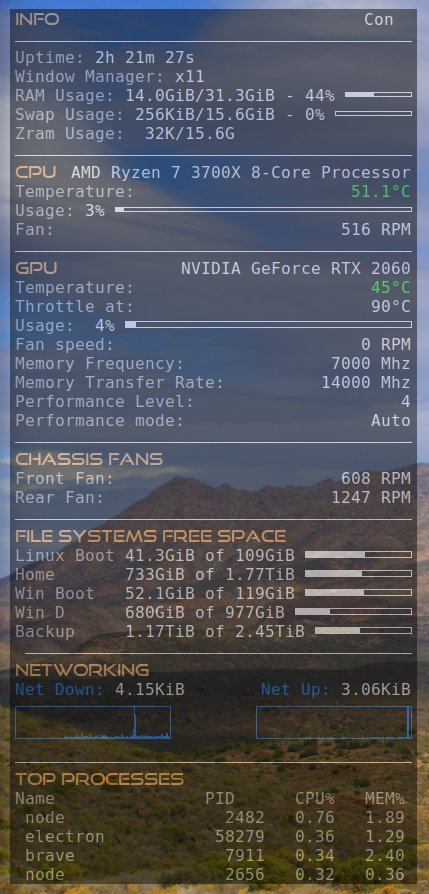
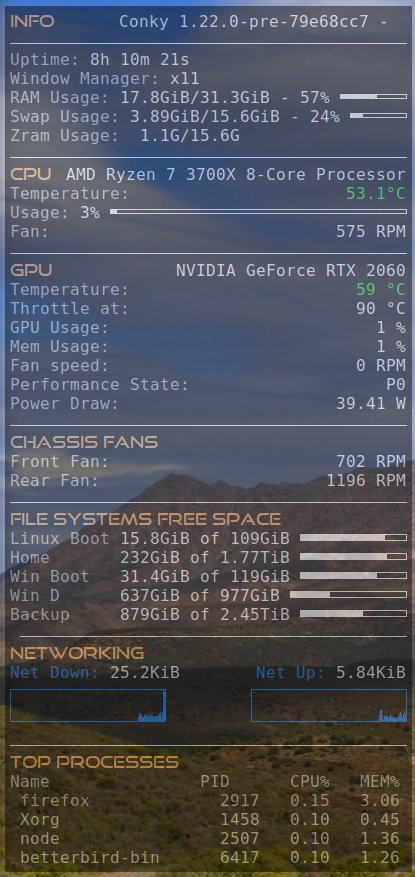
Chnages for Nvidia
Switched to using nvidia-smi as built-in nvidia command stopped working in Conky.

Changed region(s): [[0.0, 0.0, 1.0, 1.0], [0.4048, 0.9236, 0.4337, 0.9544]]

diff --git a/README.md b/README.md
@@ -18,3 +18,6 @@ So working with the zramctl command, I found it has a number of useful options t
 Again this includes the qualifying suffix, and at differing powers, so we cannot use these outputs to calculate anything useful like a percentage, but for now, the display will at least be tidy, and will make sense.
 
 I've not included a test condition so if you do not use Zram, then you can just comment out that line.
+
+# Changes for Nvidia
+For some reason the built-in Conky nvidia commands seemed to stop working in 2024. I've switch so long to using the nvidia-smi command instead. Whilst the values display fine, I've not yet found a way to replicate the Nvidia Bar function which used to show a % progress bar for GPU utilisation. This is not ideal but I'm open to ideas. For now at least it all works fine apart from the GPU bars.
